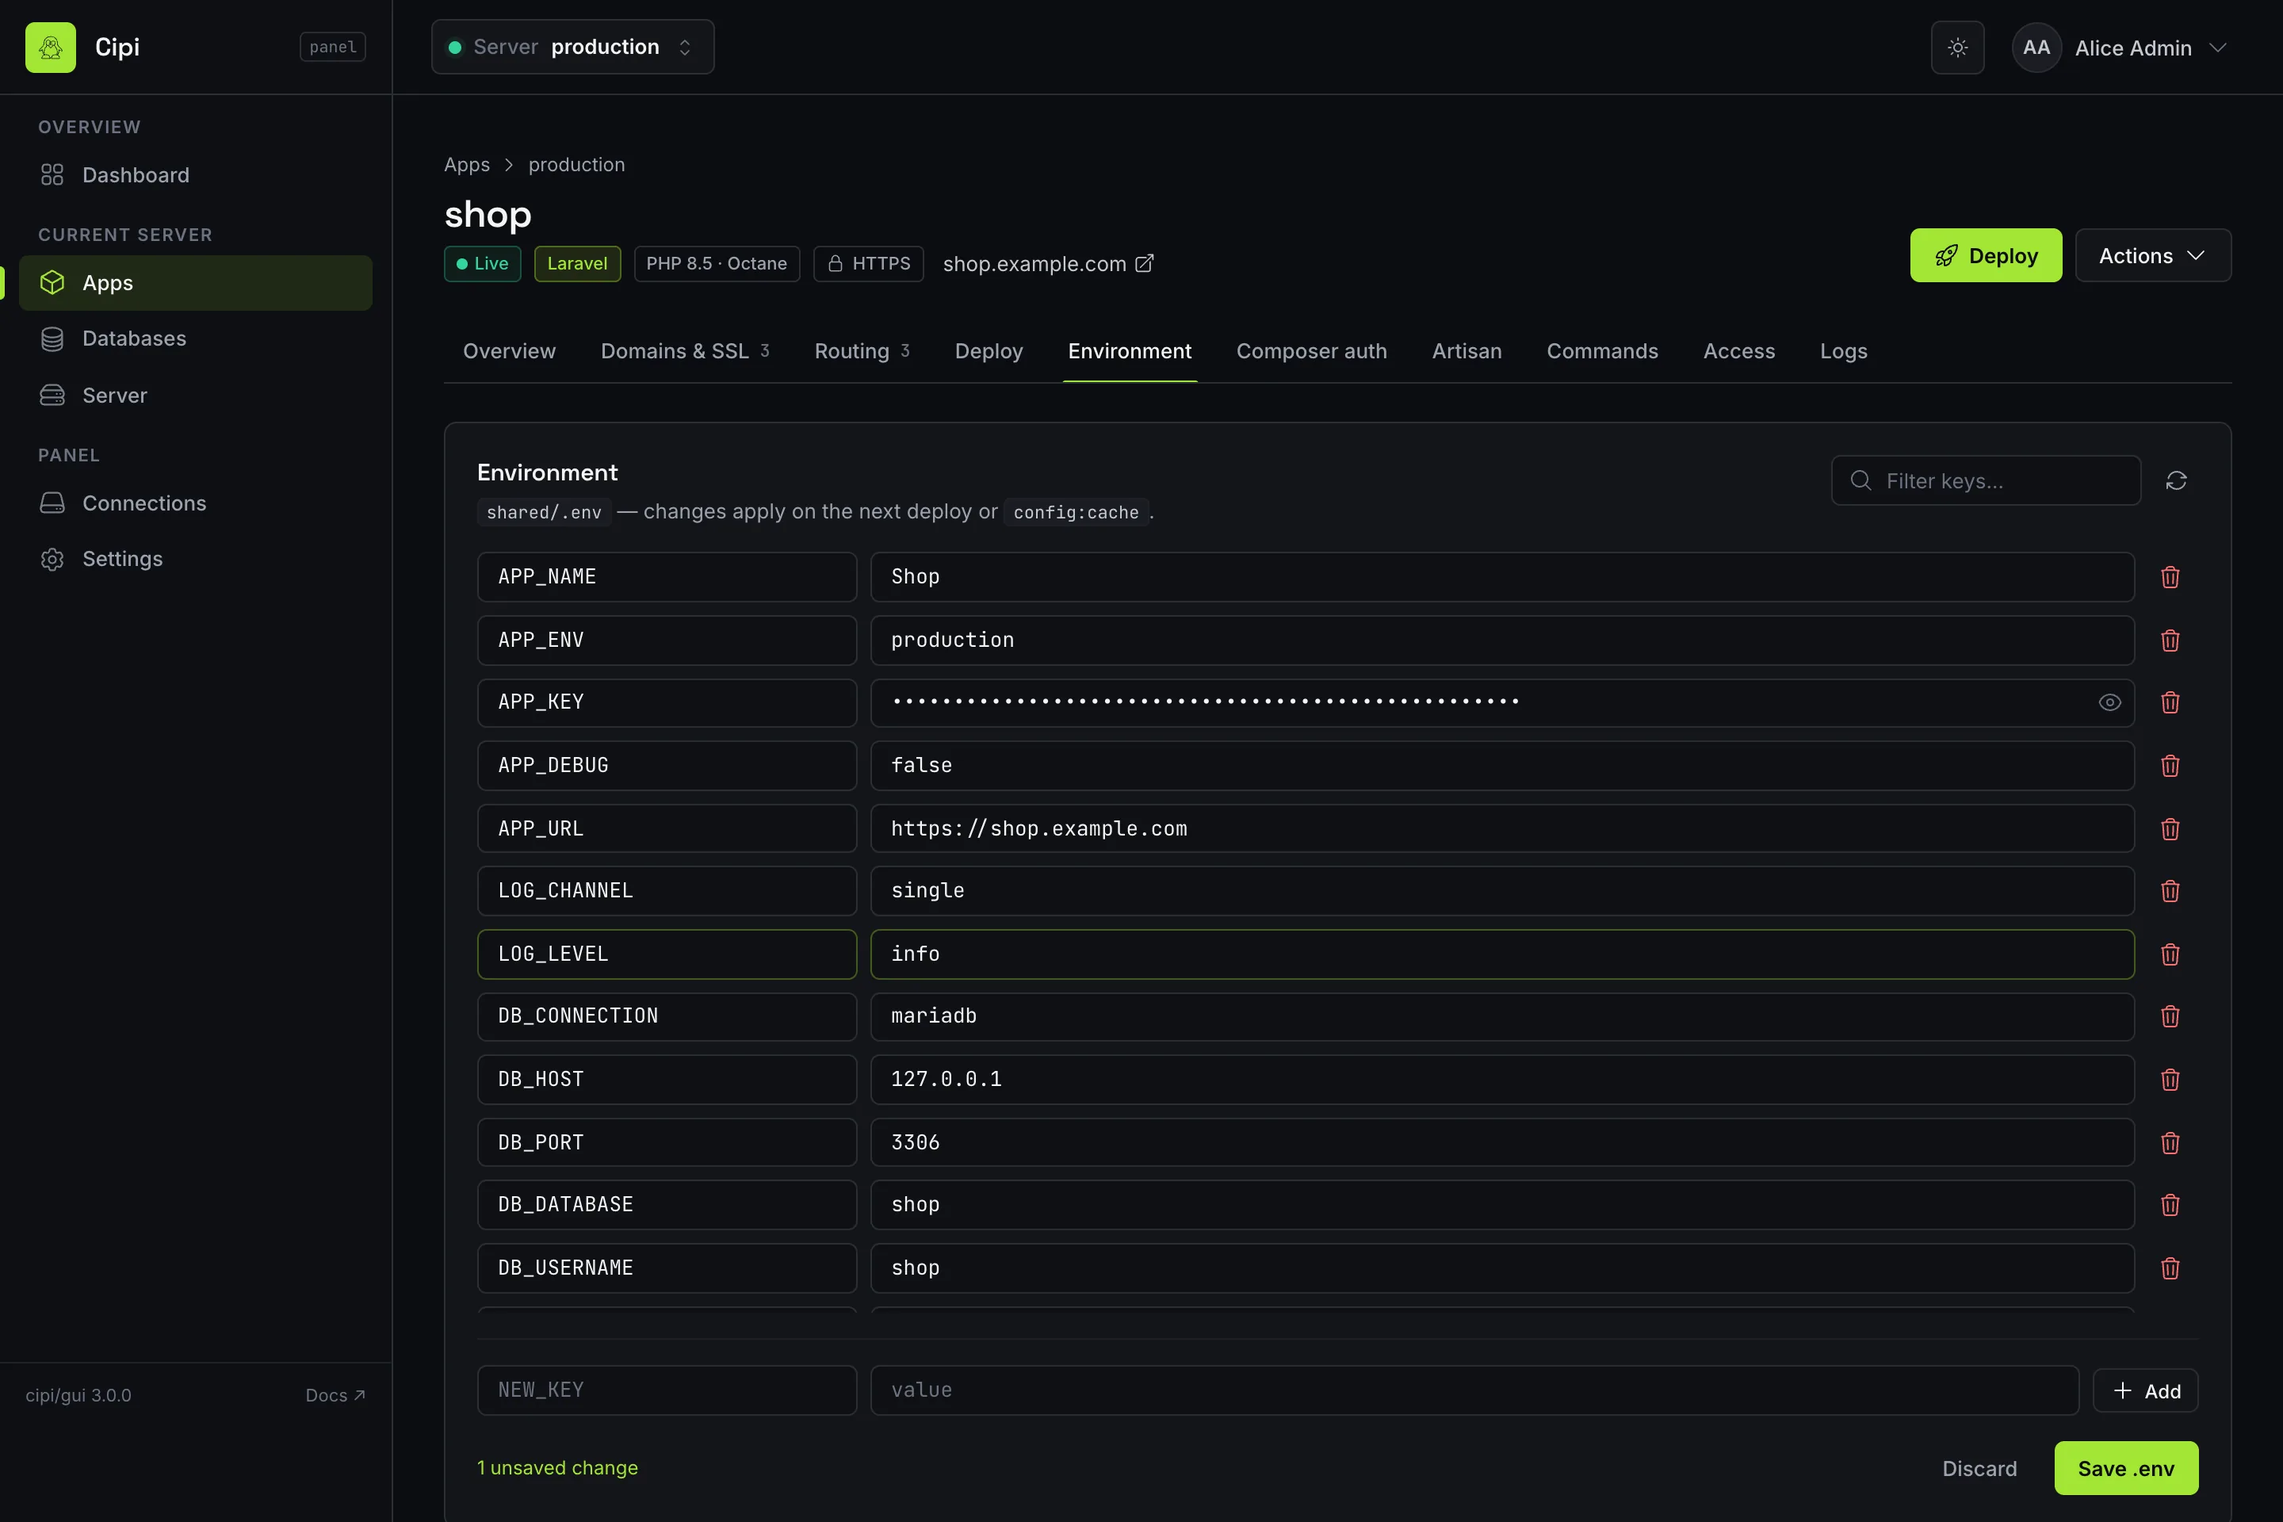
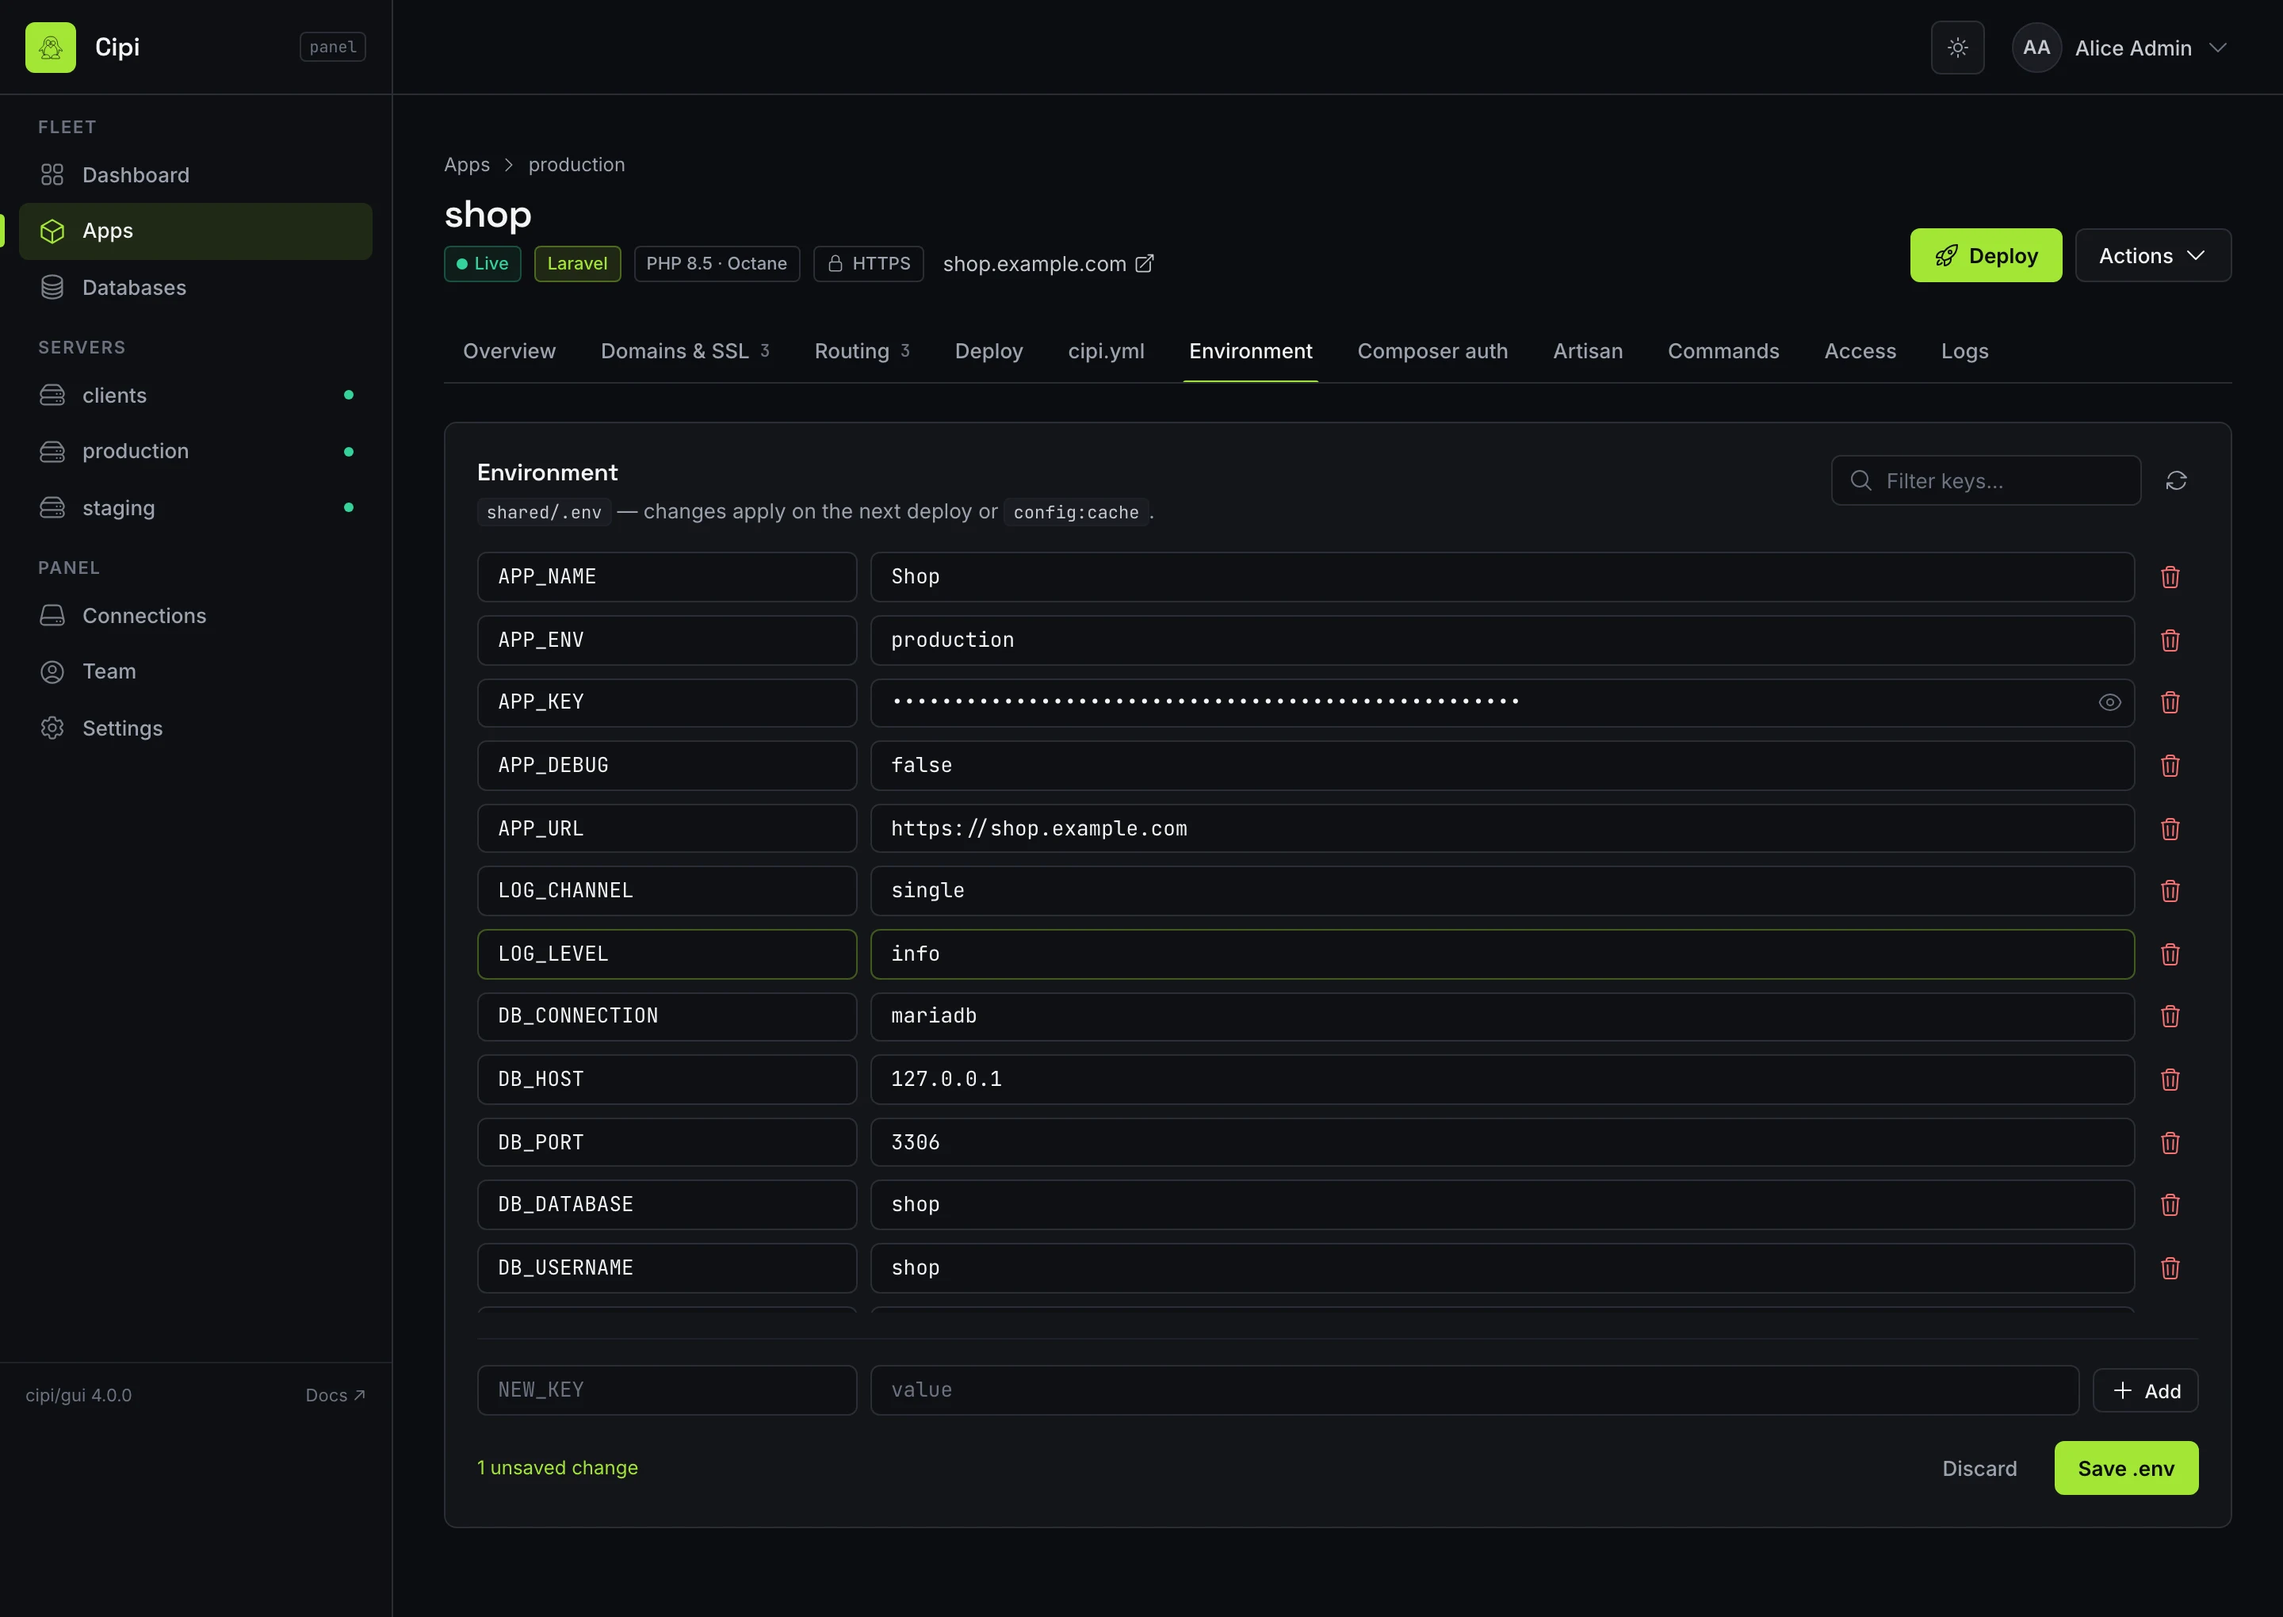
Document GUI 4.0 fleet and team features
Update the GUI documentation and screenshots for fleet view, roles and invite links, and deploy-time reporting. Refresh llms.txt with the new panel capabilities.

diff --git a/docs/gui.html b/docs/gui.html
@@ -448,9 +448,18 @@
                         <strong>Disk</strong> tab: who is filling the disk, the figures of
                         <a href="/docs/infrastructure#cli-disk"><code>cipi disk</code></a> and
                         <code>cipi disk db</code>.</li>
-                    <li>Register and switch between <strong>multiple servers</strong> from one login — the current
-                        server is picked from the header on every page, and app links carry the server so they can be
-                        bookmarked and shared.</li>
+                    <li>Register <strong>multiple servers</strong> under one login. In the default <strong>fleet
+                        view</strong> (panel <strong>4.0</strong>) Apps and Databases list every server in one place,
+                        with a server column and filter, and the sidebar has one entry per server; admins can switch the
+                        panel back to one server at a time, picked from the header. App links carry the server so they
+                        can be bookmarked and shared.</li>
+                    <li><strong>Roles</strong> (panel <strong>4.0</strong>): admins see and do everything; users get what
+                        an admin grants — View or Manage on whole servers, and View, Deploy, Edit, Environment, Logs,
+                        Commands or Delete on single apps. People are invited with a copyable link that carries the role
+                        and the grants; nothing is emailed.</li>
+                    <li><strong>Deploy times</strong> (panel <strong>4.0</strong>, Cipi <strong>5.6+</strong>): the deploy
+                        audit shows how long each deploy took and the Deploy card the last and average time, read from
+                        the deploy log's end banners. Dialogs with a form keep what was typed, and IPs copy on click.</li>
                     <li><strong>One-time credentials</strong> (SSH and database passwords, deploy key, webhook URL and
                         token) are listed with copy buttons when a job returns them, instead of being buried in CLI
                         output.</li>
@@ -465,7 +474,8 @@
                         or whose token is narrower still works for everything it supports.</li>
                 </ul>
                 <p>Panel <strong>3.0</strong> (October 2026) redesigned every page around the same design system as
-                    this site. Panel <strong>3.1</strong> adds Server → Disk. See the
+                    this site. Panel <strong>3.1</strong> adds Server → Disk; <strong>4.0</strong> roles with invite
+                    links, the fleet view and deploy times. See the
                     <a href="#gui-tour">screenshot tour</a> and the
                     <a href="https://github.com/cipi-sh/gui/blob/main/CHANGELOG.md" target="_blank" rel="noopener">changelog</a>.</p>
             </div>
@@ -481,12 +491,12 @@
                     IPs are documentation ranges.</p>
 
                 <h3>Apps</h3>
-                <p>Laravel (PHP-FPM or Octane), Node (SPA, static, SSR) and custom PHP apps of the current server, with type filters, search and a deploy button on every row.</p>
+                <p>Laravel (PHP-FPM or Octane), Node (SPA, static, SSR) and custom PHP apps of every connected server in one list — a server column and filter, type filters, search and a deploy button on every row. The Dashboard and Server pages open the list narrowed to one server; a user sees only the apps granted to them.</p>
                 <figure class="gui-shot">
                     <div class="gui-shot-frame">
                         <div class="gui-shot-bar" aria-hidden="true"><i></i><i></i><i></i><span class="gui-shot-url">panel.example.com</span></div>
-                        <img src="/img/gui/apps-light.webp" width="1440" height="900" alt="Apps list with Laravel, Node and custom apps" class="shot-light" loading="lazy" decoding="async">
-                        <img src="/img/gui/apps.webp" width="1440" height="900" alt="Apps list with Laravel, Node and custom apps" class="shot-dark" loading="lazy" decoding="async">
+                        <img src="/img/gui/apps-light.webp" width="1440" height="900" alt="Apps of three servers in one list, with a server column and filter" class="shot-light" loading="lazy" decoding="async">
+                        <img src="/img/gui/apps.webp" width="1440" height="900" alt="Apps of three servers in one list, with a server column and filter" class="shot-dark" loading="lazy" decoding="async">
                     </div>
                 </figure>
 
@@ -495,9 +505,9 @@
                     <figure class="gui-shot">
                         <div class="gui-shot-frame">
                             <div class="gui-shot-bar" aria-hidden="true"><i></i><i></i><i></i><span class="gui-shot-url">panel.example.com</span></div>
-                            <img src="/img/gui/create-app.webp" width="1440" height="900" alt="Create app dialog with the Node type selected" loading="lazy" decoding="async">
+                            <img src="/img/gui/create-app.webp" width="1440" height="900" alt="Create app dialog with the server picker and the Node type selected" loading="lazy" decoding="async">
                         </div>
-                        <figcaption>Create a Node SSR app with the Nuxt preset.</figcaption>
+                        <figcaption>Create a Node SSR app with the Nuxt preset — with several servers connected, pick where it goes.</figcaption>
                     </figure>
                     <figure class="gui-shot">
                         <div class="gui-shot-frame">
@@ -521,10 +531,10 @@
                 <figure class="gui-shot">
                     <div class="gui-shot-frame">
                         <div class="gui-shot-bar" aria-hidden="true"><i></i><i></i><i></i><span class="gui-shot-url">panel.example.com</span></div>
-                        <img src="/img/gui/app-deploy-light.webp" width="1440" height="1240" alt="Deploy tab with deploy actions, the deploy audit ledger and the deploy pipeline options" class="shot-light" loading="lazy" decoding="async">
-                        <img src="/img/gui/app-deploy.webp" width="1440" height="1240" alt="Deploy tab with deploy actions, the deploy audit ledger and the deploy pipeline options" class="shot-dark" loading="lazy" decoding="async">
+                        <img src="/img/gui/app-deploy-light.webp" width="1440" height="1240" alt="Deploy tab with deploy actions, deploy times, the deploy audit ledger and the deploy pipeline options" class="shot-light" loading="lazy" decoding="async">
+                        <img src="/img/gui/app-deploy.webp" width="1440" height="1240" alt="Deploy tab with deploy actions, deploy times, the deploy audit ledger and the deploy pipeline options" class="shot-dark" loading="lazy" decoding="async">
                     </div>
-                    <figcaption>Deploy: actions, Git webhook, the hash-chained deploy audit and the structured deploy.php pipeline.</figcaption>
+                    <figcaption>Deploy: actions, Git webhook, how long the last deploys took, the hash-chained deploy audit with a Took column, and the structured deploy.php pipeline.</figcaption>
                 </figure>
 
                 <div class="gui-shot-grid">
@@ -599,16 +609,16 @@
                     <figure class="gui-shot">
                         <div class="gui-shot-frame">
                             <div class="gui-shot-bar" aria-hidden="true"><i></i><i></i><i></i><span class="gui-shot-url">panel.example.com</span></div>
-                            <img src="/img/gui/connections.webp" width="1440" height="900" alt="Connections page with the server switcher open" loading="lazy" decoding="async">
+                            <img src="/img/gui/connections.webp" width="1440" height="900" alt="Connections page with the three servers and the token command" loading="lazy" decoding="async">
                         </div>
-                        <figcaption>Connections, token rotation and the header server switcher.</figcaption>
+                        <figcaption>Connections (admins) — IPs copy on click — and token rotation.</figcaption>
                     </figure>
                     <figure class="gui-shot">
                         <div class="gui-shot-frame">
                             <div class="gui-shot-bar" aria-hidden="true"><i></i><i></i><i></i><span class="gui-shot-url">panel.example.com</span></div>
-                            <img src="/img/gui/settings-2fa.webp" width="1440" height="1040" alt="Settings page during two-factor setup" loading="lazy" decoding="async">
+                            <img src="/img/gui/settings-2fa.webp" width="1440" height="1040" alt="Settings page with the panel settings and two-factor setup" loading="lazy" decoding="async">
                         </div>
-                        <figcaption>Profile, password and TOTP two-factor setup.</figcaption>
+                        <figcaption>Panel settings (admins), profile, password and TOTP two-factor setup.</figcaption>
                     </figure>
                 </div>
 
@@ -616,6 +626,25 @@
                     <img src="/img/gui/mobile-apps.webp" width="585" height="1266" alt="Apps list on a phone" loading="lazy" decoding="async">
                     <img src="/img/gui/mobile-app.webp" width="585" height="1266" alt="App detail on a phone" loading="lazy" decoding="async">
                     <img src="/img/gui/mobile-nav.webp" width="585" height="1266" alt="Navigation drawer on a phone" loading="lazy" decoding="async">
+                </div>
+
+                <h3>Team and roles</h3>
+                <p>Admins see and do everything. A user gets what an admin grants — View or Manage on whole servers, and View, Deploy, Edit, Environment, Logs, Commands or Delete on single apps — and is invited with a copyable link that carries that access. Nothing is emailed; a link works once and expires after seven days.</p>
+                <div class="gui-shot-grid">
+                    <figure class="gui-shot">
+                        <div class="gui-shot-frame">
+                            <div class="gui-shot-bar" aria-hidden="true"><i></i><i></i><i></i><span class="gui-shot-url">panel.example.com</span></div>
+                            <img src="/img/gui/team.webp" width="1440" height="900" alt="Team page with an admin, a user and a pending invite" loading="lazy" decoding="async">
+                        </div>
+                        <figcaption>Team: accounts, roles, access and pending invite links.</figcaption>
+                    </figure>
+                    <figure class="gui-shot">
+                        <div class="gui-shot-frame">
+                            <div class="gui-shot-bar" aria-hidden="true"><i></i><i></i><i></i><span class="gui-shot-url">panel.example.com</span></div>
+                            <img src="/img/gui/team-invite.webp" width="1440" height="900" alt="Invite dialog with a level per server and abilities per app" loading="lazy" decoding="async">
+                        </div>
+                        <figcaption>Inviting a user: a level per server, abilities per app, then a link to copy.</figcaption>
+                    </figure>
                 </div>
             </div>
 
